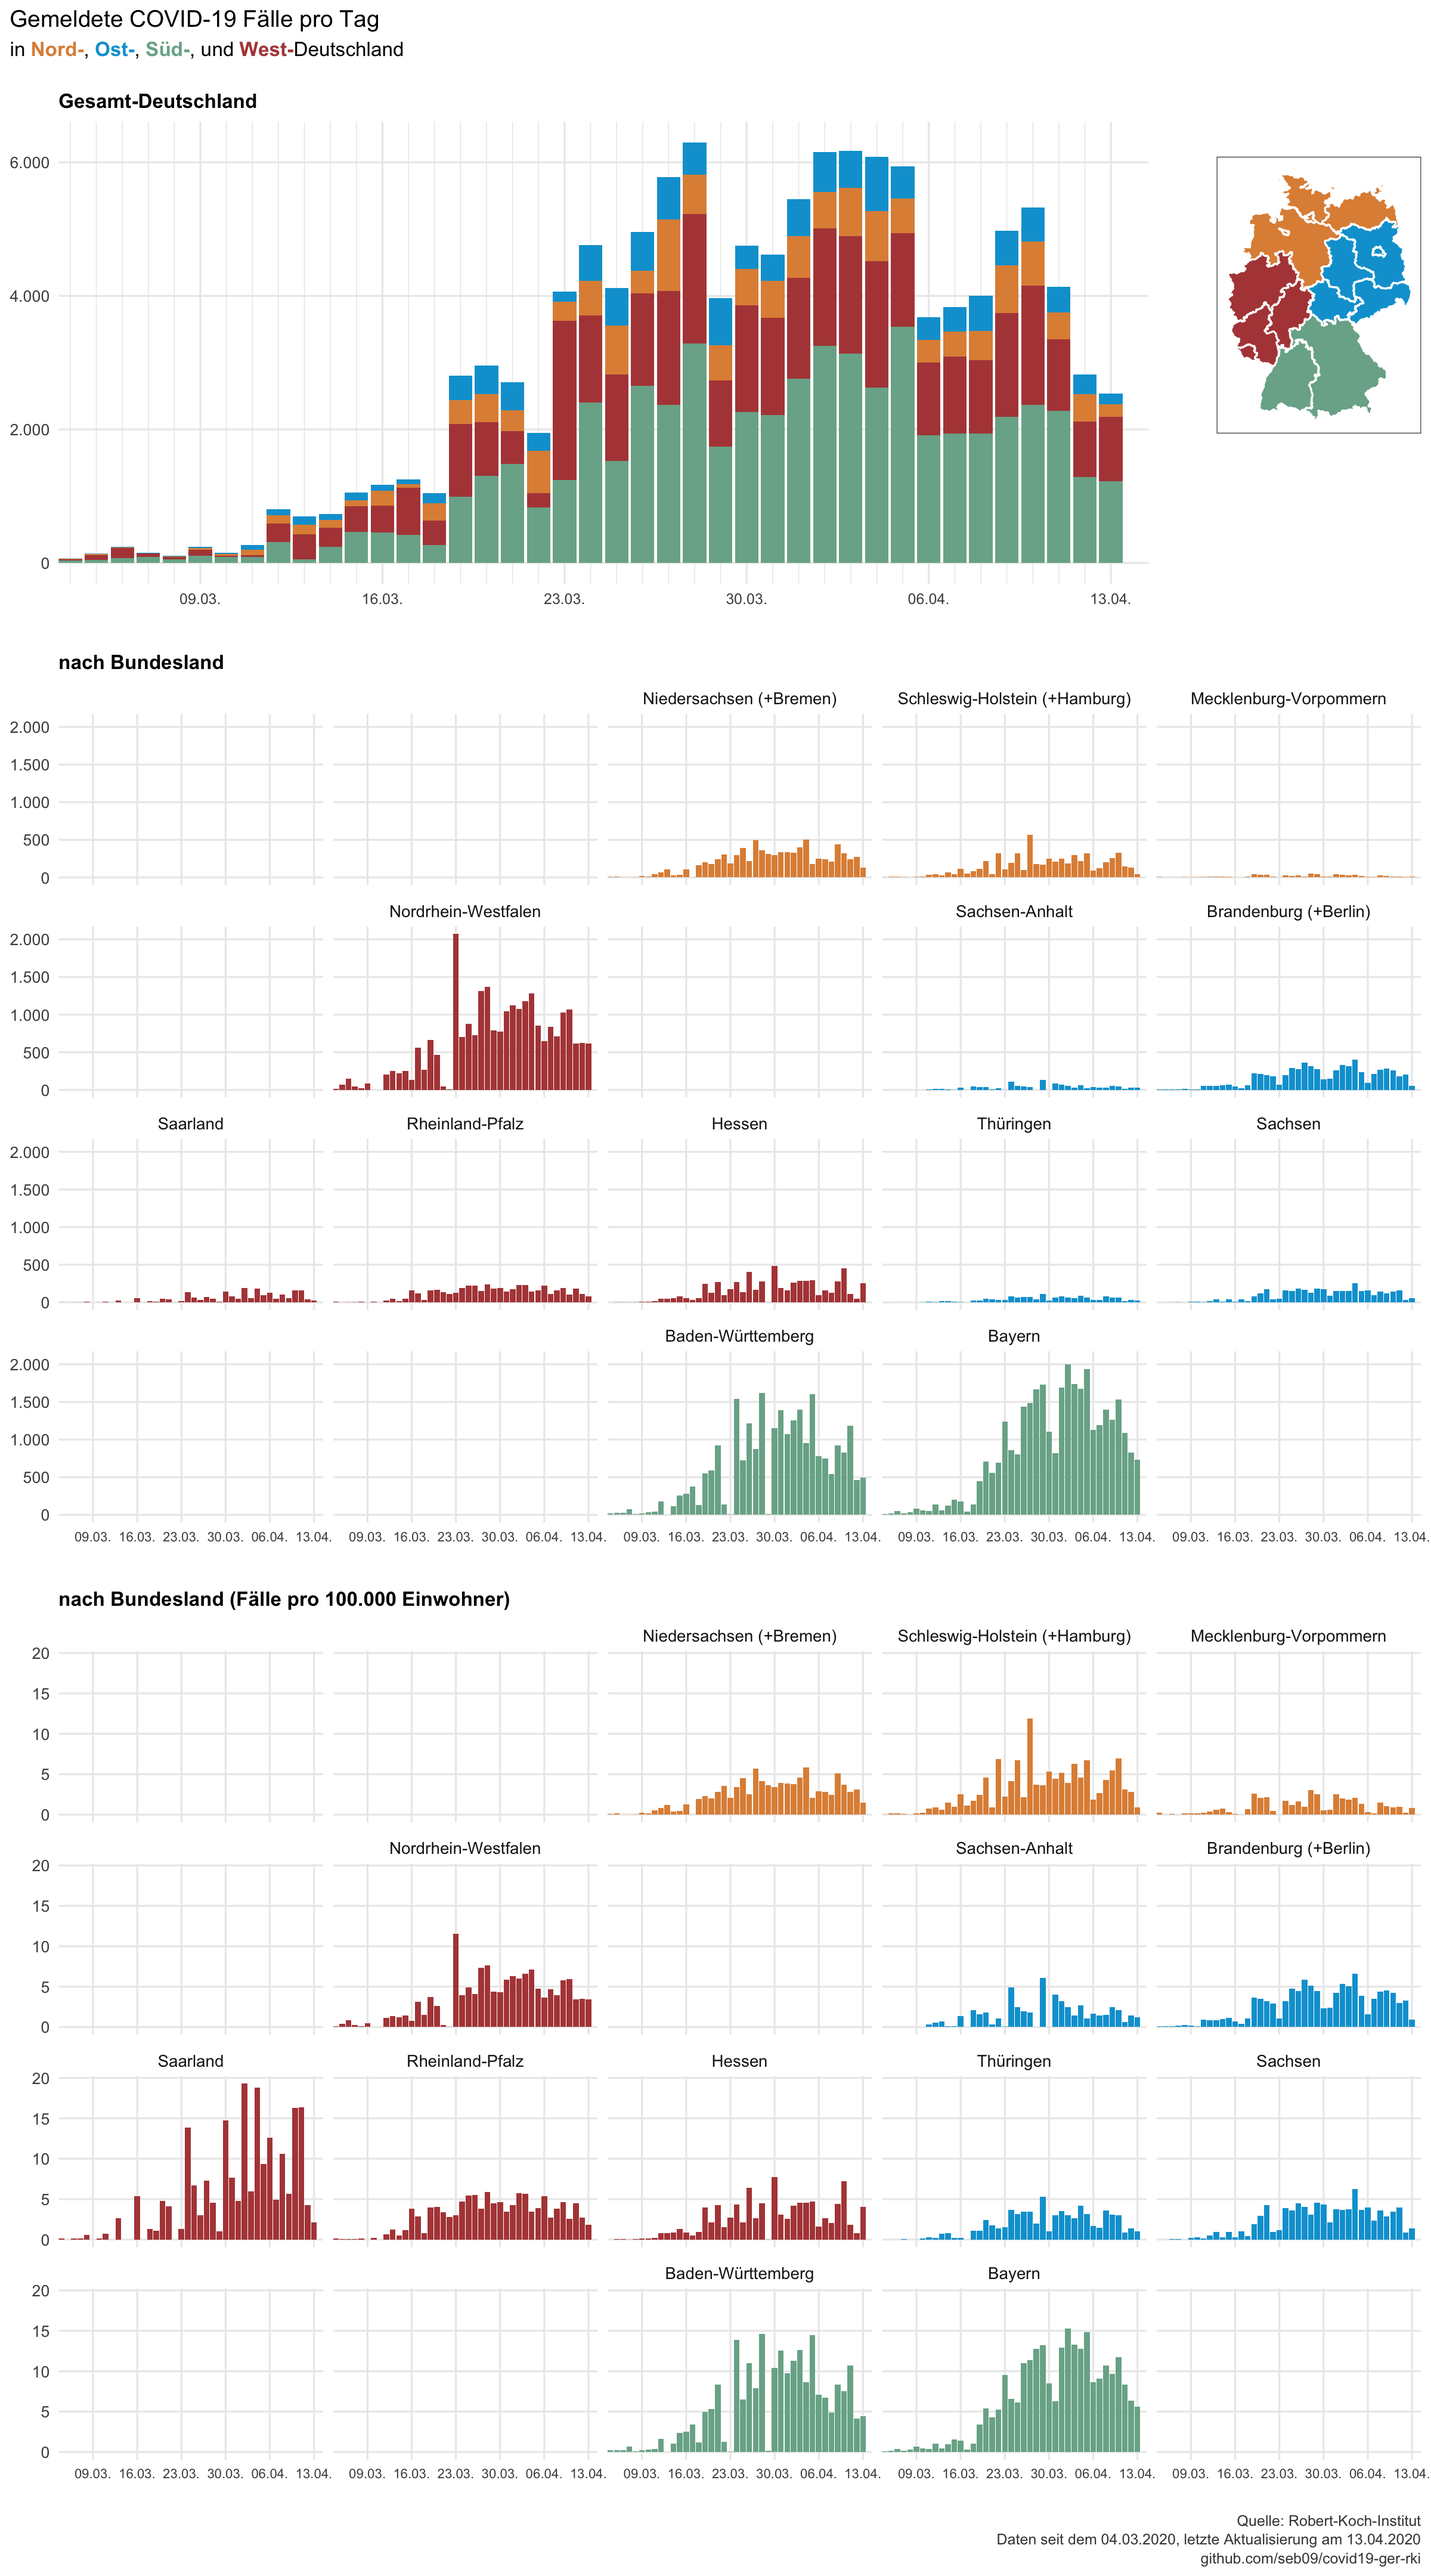
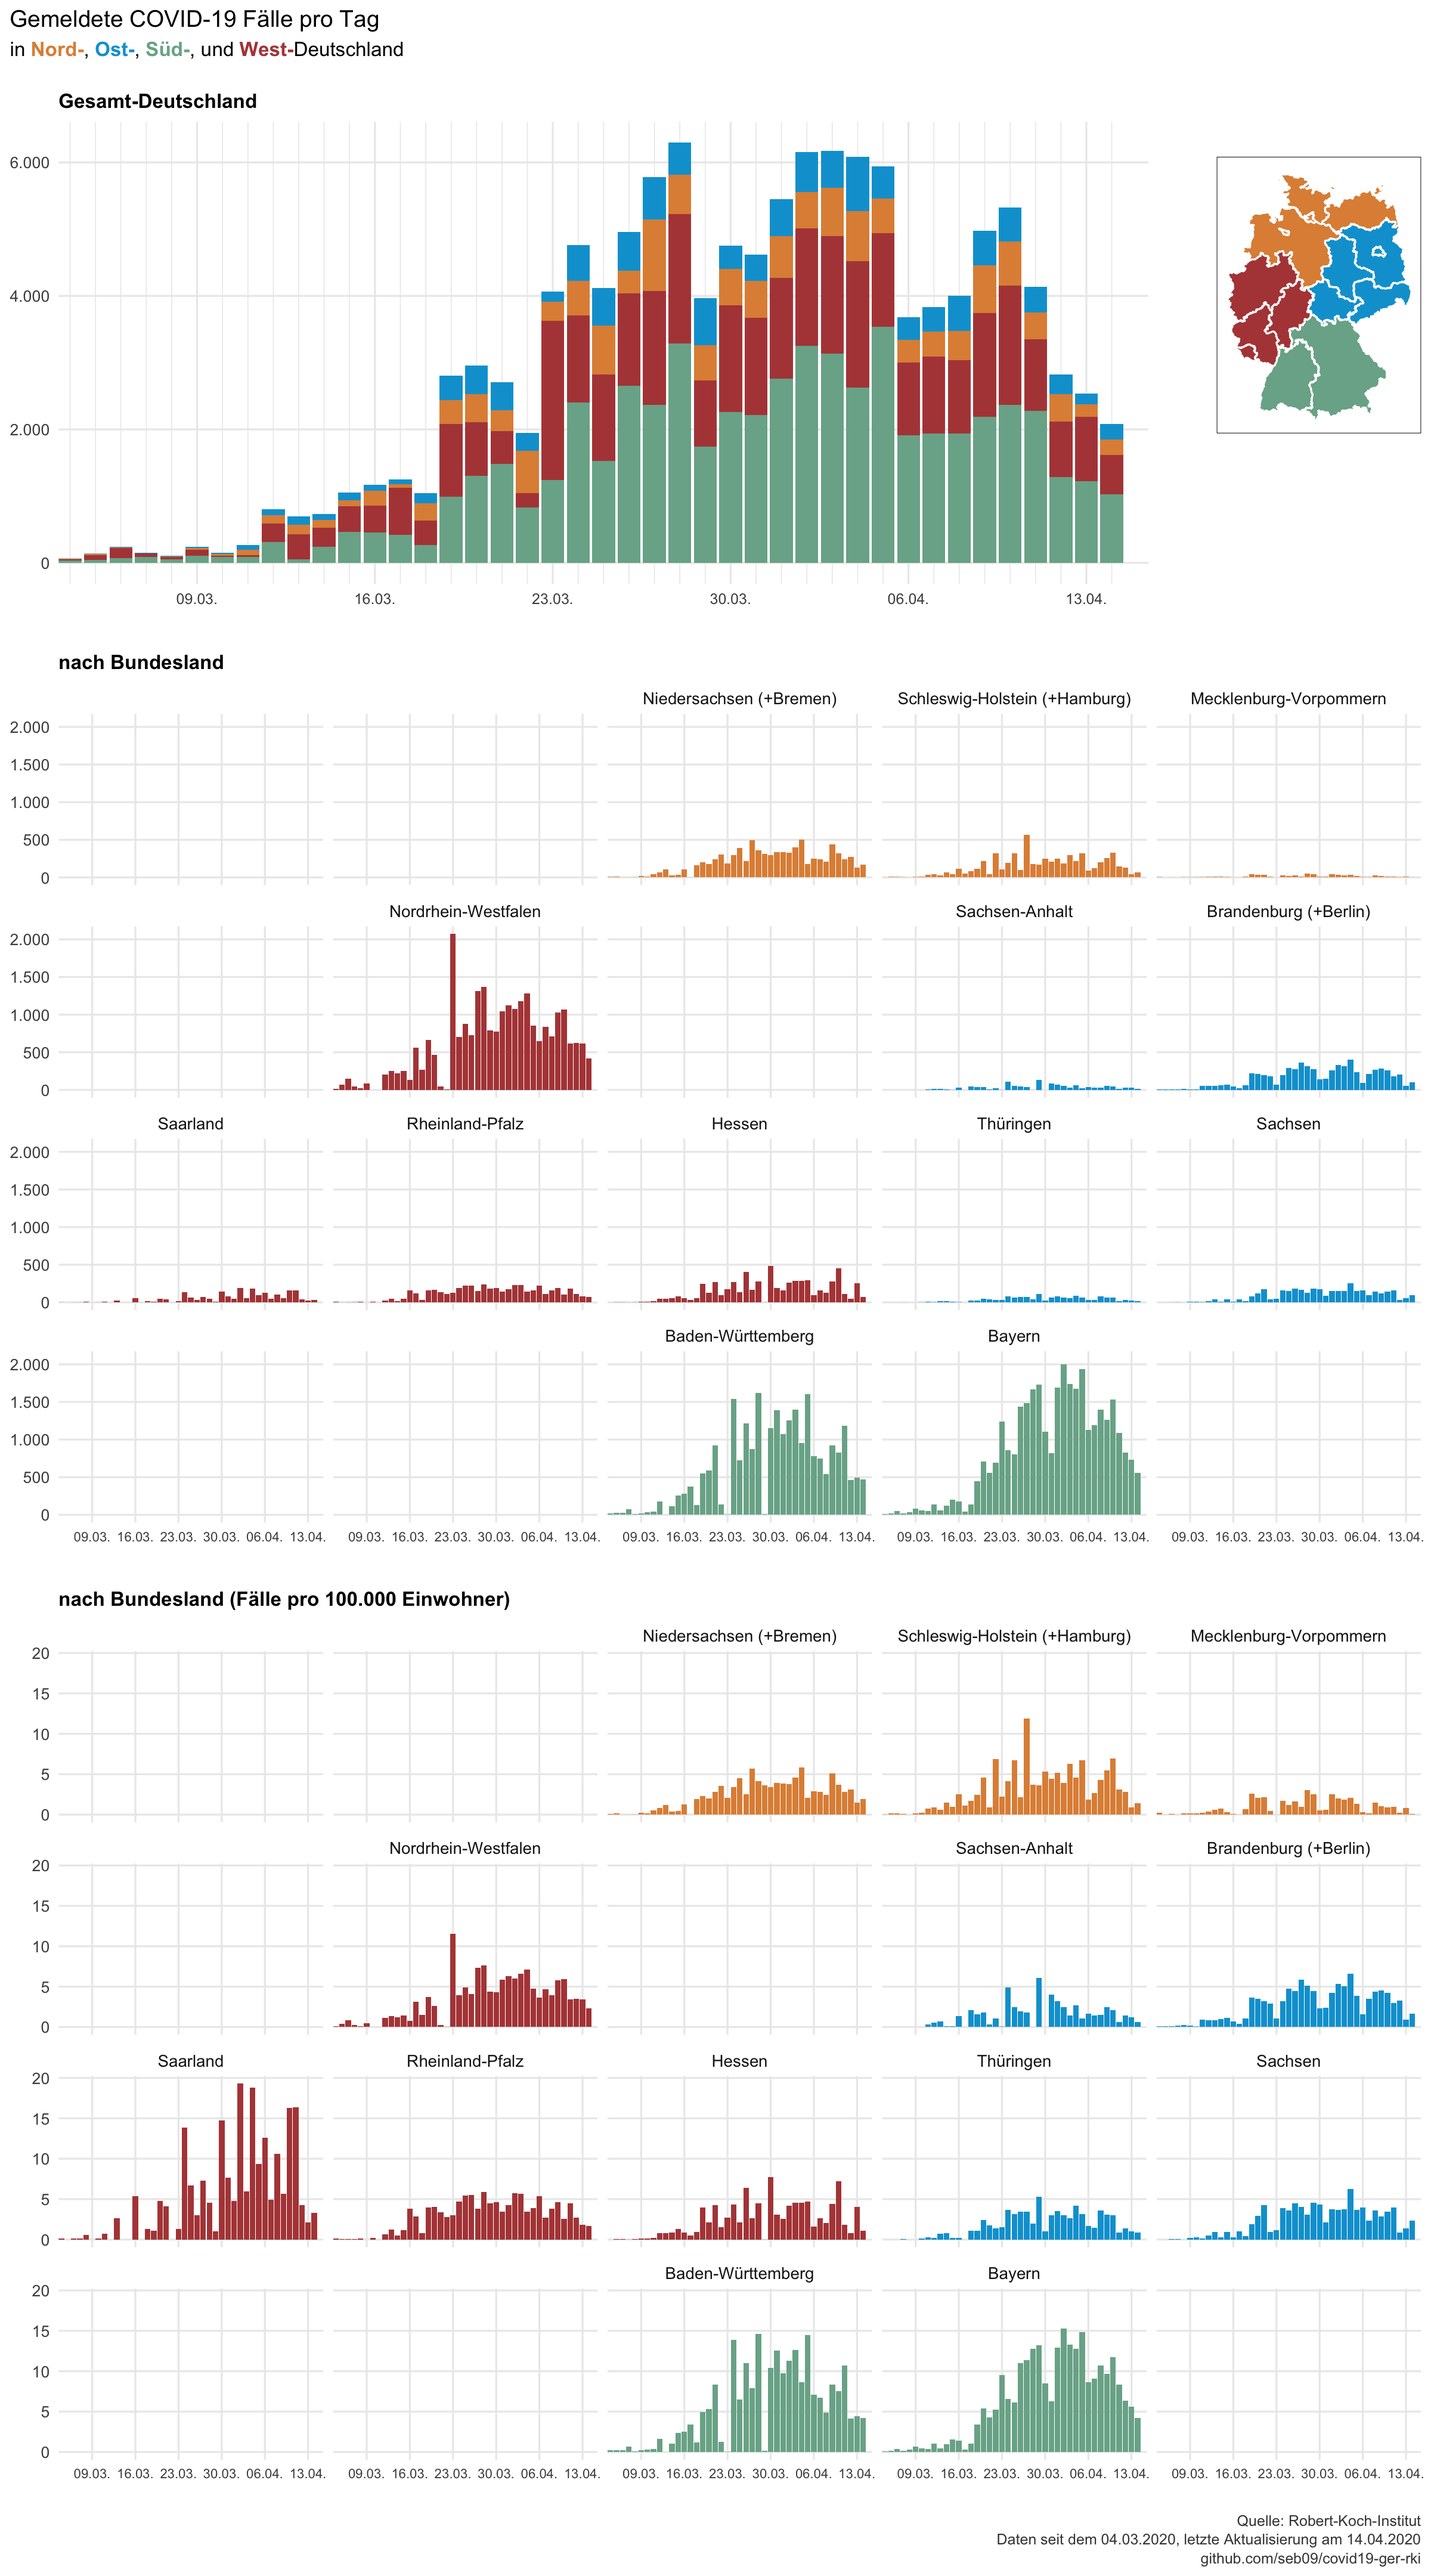
daily update 2020-04-14

diff --git a/README.md b/README.md
@@ -1,6 +1,6 @@
 Data from the Robert-Koch-Institut on COVID-19 in Germany
 ================
-Last update: 2020-04-13
+Last update: 2020-04-14
 
 This repository contains data on reported COVID-19 cases in Germany and
 its federal states that is published daily by the Robert-Koch-Institut
@@ -14,26 +14,26 @@ corona_rki %>%
   print(n = 16)
 ```
 
-    ## # A tibble: 650 x 6
+    ## # A tibble: 666 x 6
     ##    Datum      Bundesland      Fallzahl Todeszahl Fallzahl_neu Todeszahl_neu
     ##    <date>     <chr>              <dbl>     <dbl>        <dbl>         <dbl>
-    ##  1 2020-04-13 Baden-Württemb…    24570       677          492            28
-    ##  2 2020-04-13 Bayern             33015       820          733            34
-    ##  3 2020-04-13 Berlin              4601        51           34             1
-    ##  4 2020-04-13 Brandenburg         1880        38           23             0
-    ##  5 2020-04-13 Bremen               486        17            6             2
-    ##  6 2020-04-13 Hamburg             3770        56           28             0
-    ##  7 2020-04-13 Hessen              6114       135          255            12
-    ##  8 2020-04-13 Mecklenburg-Vo…      618        11           13             0
-    ##  9 2020-04-13 Niedersachsen       7723       201          121            12
-    ## 10 2020-04-13 Nordrhein-West…    24883       518          616            23
-    ## 11 2020-04-13 Rheinland-Pfalz     4810        68           76             4
-    ## 12 2020-04-13 Saarland            2079        44           21             1
-    ## 13 2020-04-13 Sachsen             3655        68           55             1
-    ## 14 2020-04-13 Sachsen-Anhalt      1193        24           27             3
-    ## 15 2020-04-13 Schleswig-Hols…     2134        44           16             3
-    ## 16 2020-04-13 Thüringen           1485        27           21             2
-    ## # … with 634 more rows
+    ##  1 2020-04-14 Baden-Württemb…    25040       711          470            34
+    ##  2 2020-04-14 Bayern             33569       872          554            52
+    ##  3 2020-04-14 Berlin              4668        56           67             5
+    ##  4 2020-04-14 Brandenburg         1916        40           36             2
+    ##  5 2020-04-14 Bremen               492        20            6             3
+    ##  6 2020-04-14 Hamburg             3808        59           38             3
+    ##  7 2020-04-14 Hessen              6183       147           69            12
+    ##  8 2020-04-14 Mecklenburg-Vo…      619        11            1             0
+    ##  9 2020-04-14 Niedersachsen       7885       211          162            10
+    ## 10 2020-04-14 Nordrhein-West…    25300       545          417            27
+    ## 11 2020-04-14 Rheinland-Pfalz     4880        70           70             2
+    ## 12 2020-04-14 Saarland            2112        52           33             8
+    ## 13 2020-04-14 Sachsen             3751        70           96             2
+    ## 14 2020-04-14 Sachsen-Anhalt      1207        25           14             1
+    ## 15 2020-04-14 Schleswig-Hols…     2164        49           30             5
+    ## 16 2020-04-14 Thüringen           1504        31           19             4
+    ## # … with 650 more rows
 
 Data is downloaded each day at 11am from the [website of the
 RKI](https://www.rki.de/DE/Content/InfAZ/N/Neuartiges_Coronavirus/Fallzahlen.html)
